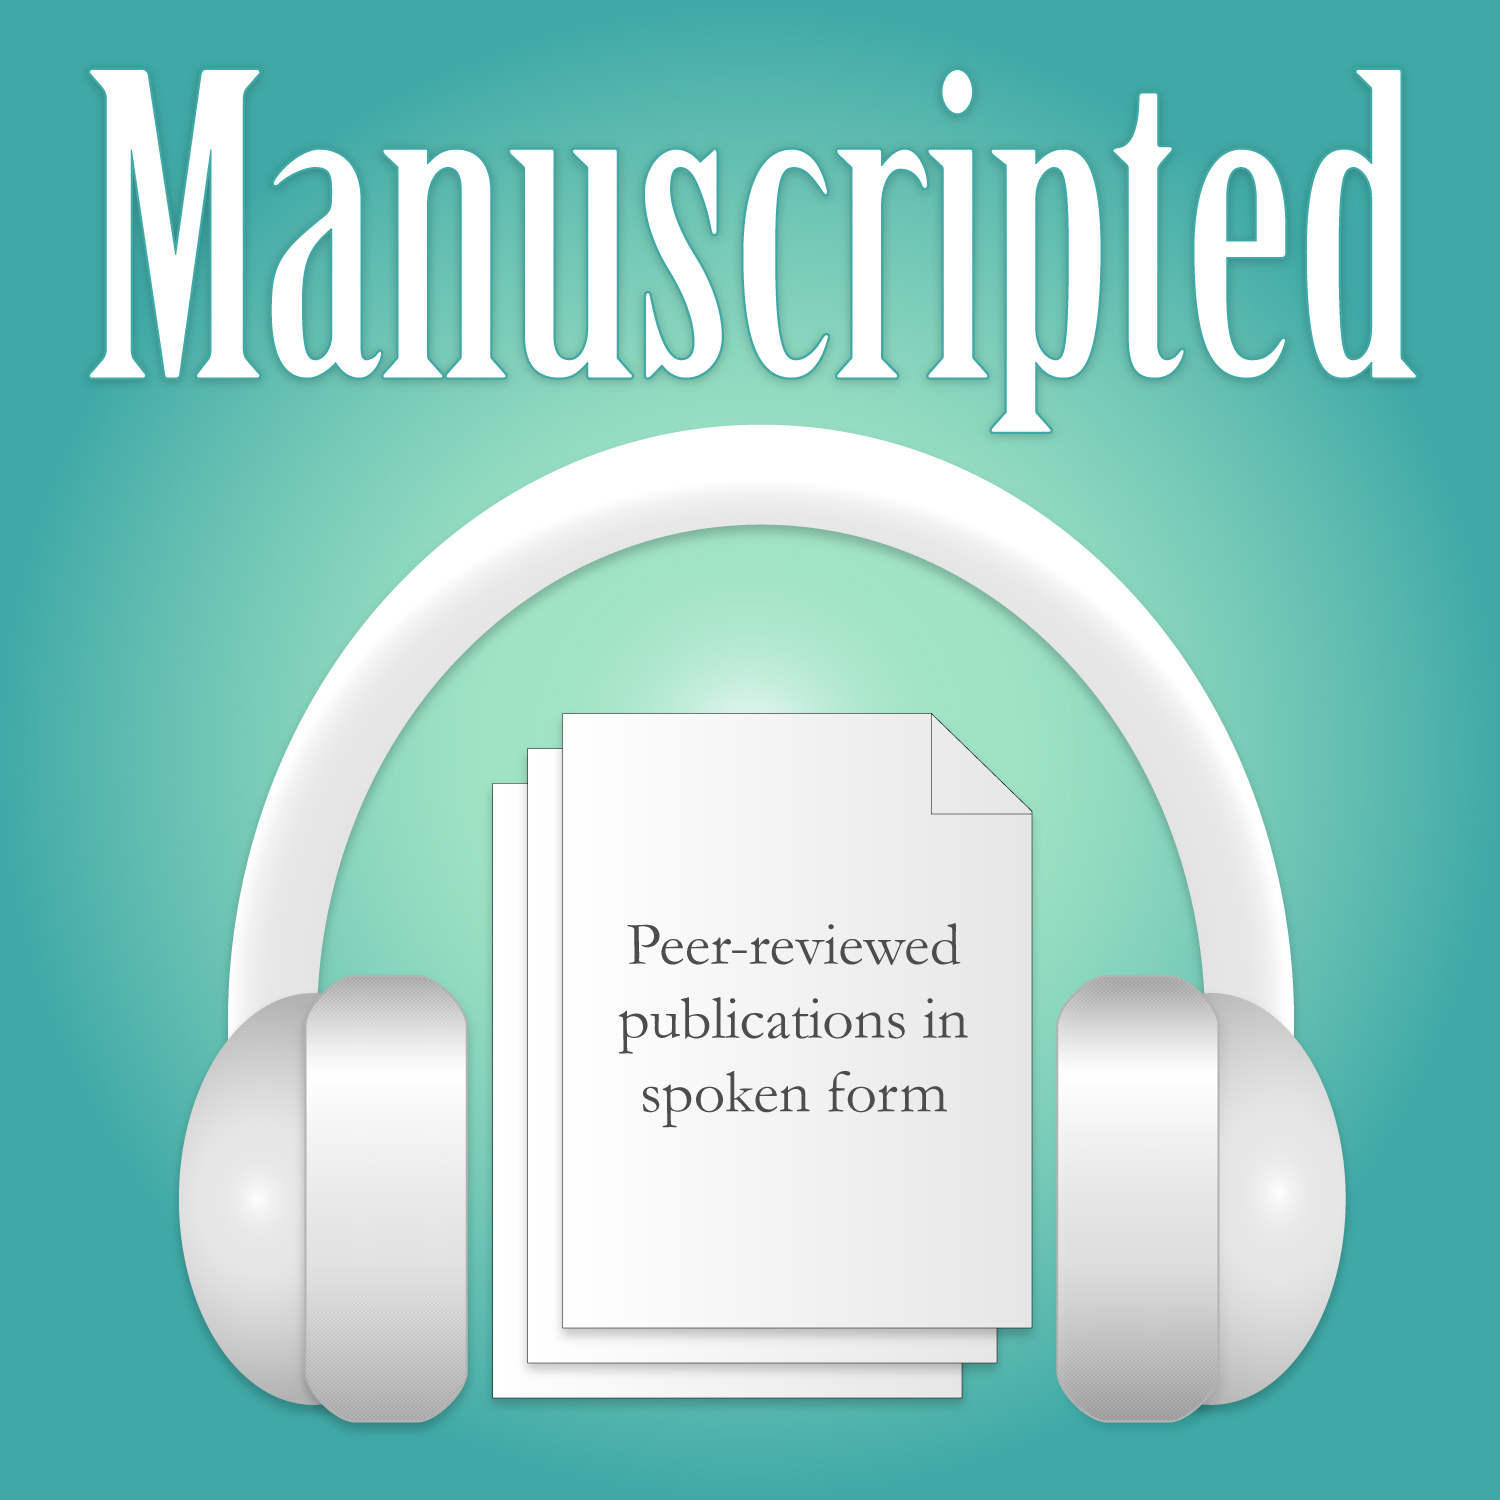
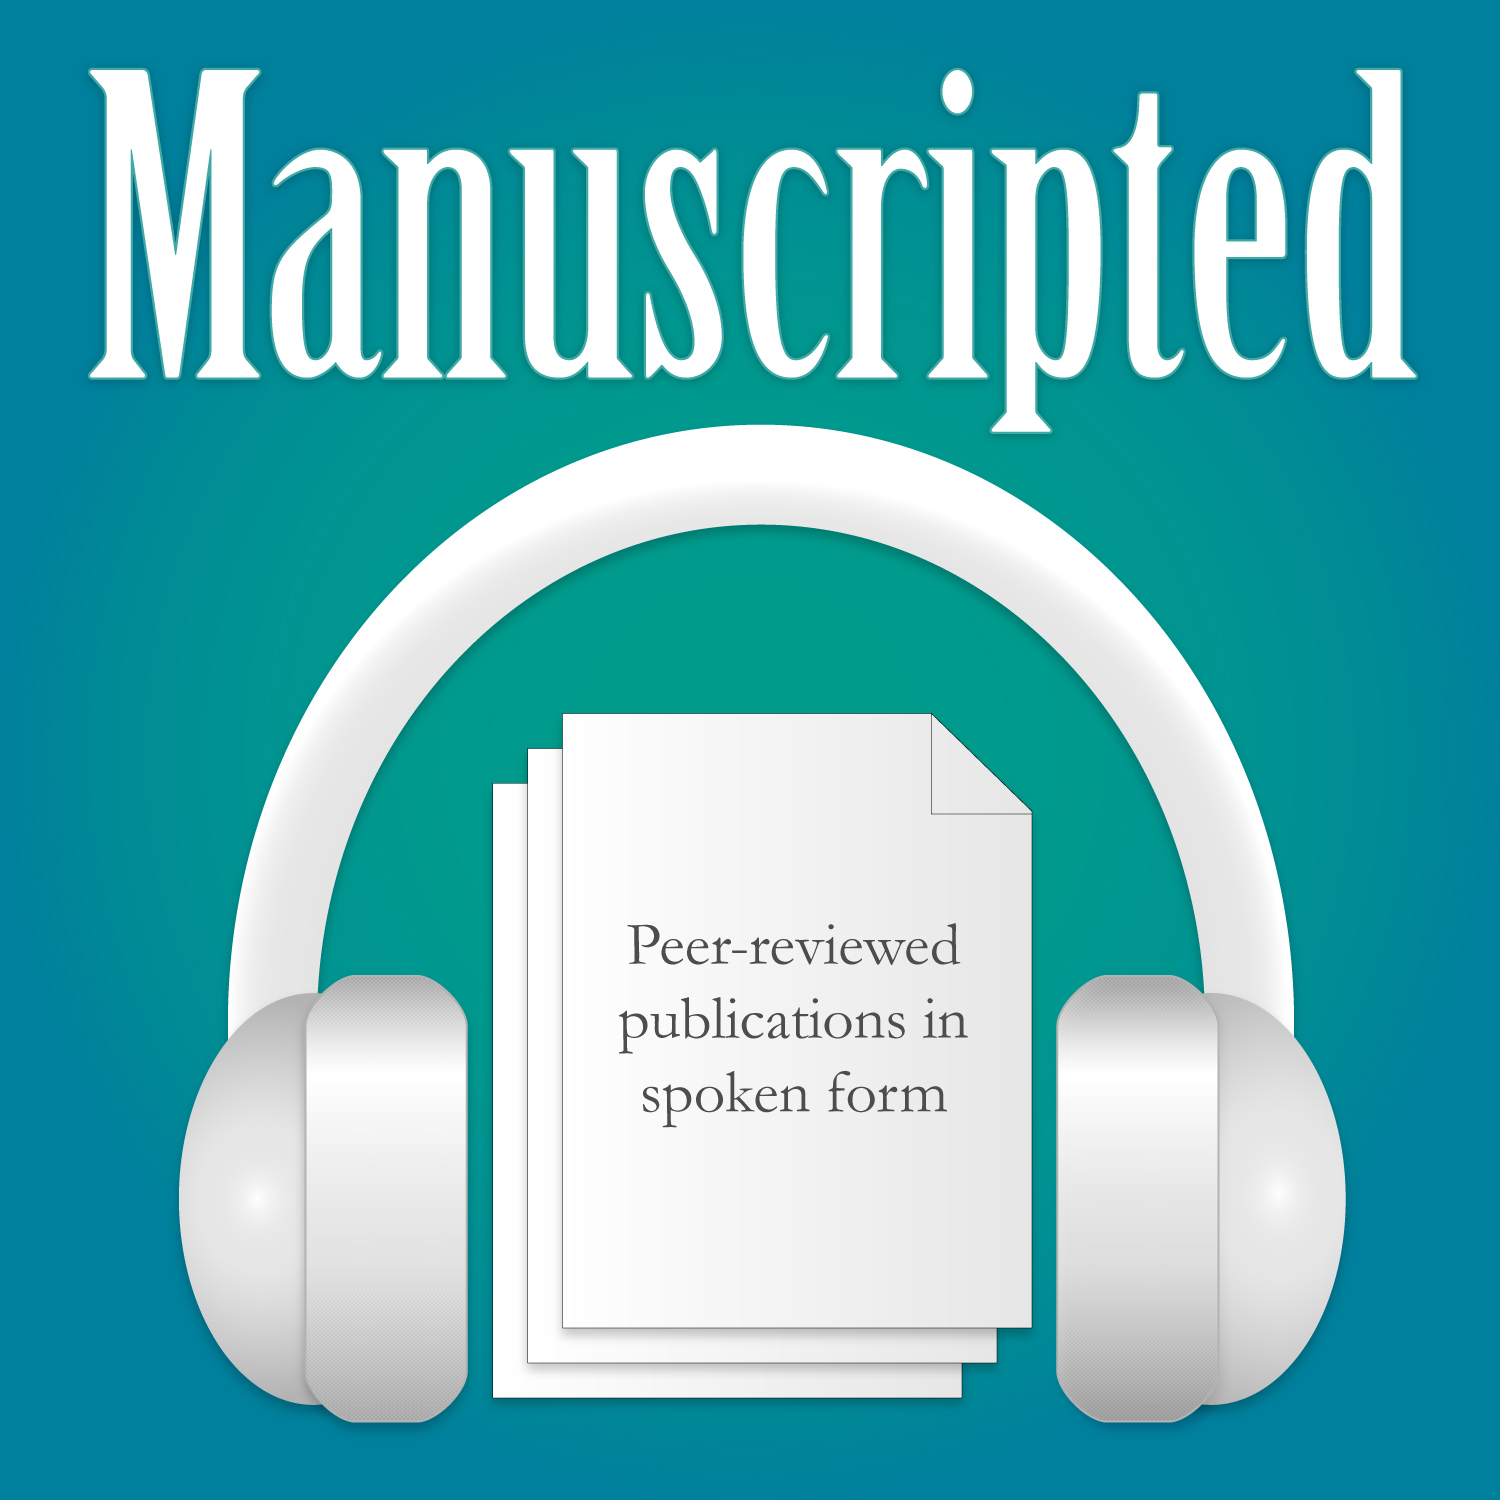
deploy: ae9fc2f3f0e3405f90ed09666656d783bcf3aefa

diff --git a/flutter_service_worker.js b/flutter_service_worker.js
@@ -19,8 +19,8 @@ const RESOURCES = {
 "version.json": "5ec9ef63d1b15bd6ec5538d088c3005b",
 "favicon.png": "5dcef449791fa27946b3d35ad8803796",
 "img/spotify.png": "0a5ef7a942cb1d9a64169f57ba1a05c3",
-"img/icon_larger_circle.png": "736f7e2b110ea261bf268fb43c5afe90",
-"img/icon.jpg": "4e6a16b51785af2fc5daa83f68302c82"
+"img/icon_larger_circle.png": "f04b1f239ce99e829741b82c0d66120c",
+"img/icon.jpg": "79668adb843793561a3af32a029497b9"
 };
 
 // The application shell files that are downloaded before a service worker can
